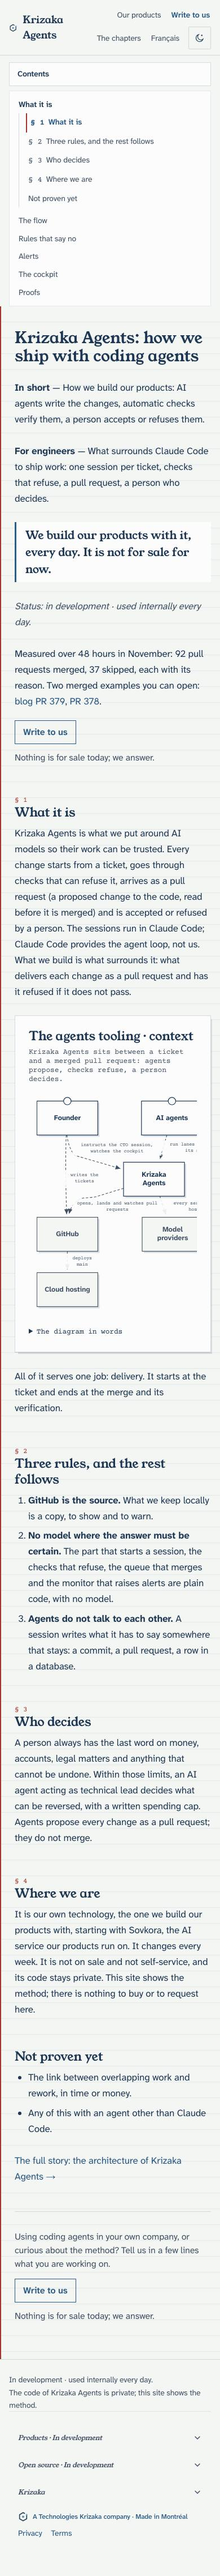
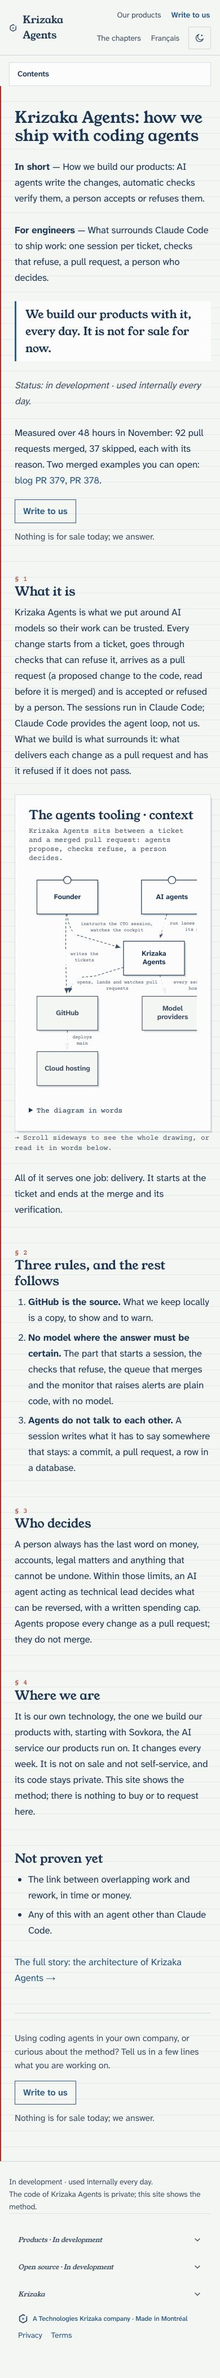
fix(site): every architecture view fits its frame at 1440 px, with a cue where the kit's minimum scale scrolls it; the check measures figure bounds (refs krizaka-internal#4184)

diff --git a/site/app/globals.css b/site/app/globals.css
@@ -12,6 +12,8 @@
   --kz-font-mono: var(--font-kz-mono), "Courier Prime", "Courier New", ui-monospace, Menlo, monospace;
   --kz-reading: 44rem;
   --kz-gutter: clamp(16px, 4vw, 32px);
+  /* The widest the bar, the page and the footer go: room enough for an architecture view at its kit minimum scale beside the margin. */
+  --kz-wide: 80rem;
 }
 
 @layer base {
@@ -72,7 +74,7 @@ main {
   align-items: center;
   justify-content: space-between;
   gap: 12px;
-  max-width: 72rem;
+  max-width: var(--kz-wide);
   margin-inline: auto;
   padding: 10px var(--kz-gutter);
 }
@@ -287,10 +289,31 @@ main {
 .kz-view {
   margin: var(--line) 0;
 }
+/* The cue under a drawing that scrolls in its frame (shown by ViewScrollCue only while it does). */
+.kz-view-cue {
+  margin: 0.25rem 0 0;
+  font-family: var(--kz-font-mono);
+  font-size: 0.8rem;
+  line-height: 1.4;
+  color: var(--kz-text-secondary);
+}
+.kz-view-cue[hidden] {
+  display: none;
+}
+/* On a desktop the drawings take the room right of the margin: the article is as wide as the page allows, its text stays at the
+   reading measure, a view takes the whole width (the kit scales it to its column down to its own minimum). */
+@media (min-width: 1024px) {
+  .kz-article > :not(.kz-view) {
+    max-width: calc(var(--kz-reading) - 2 * var(--kz-gutter) - 0.5rem - 2px);
+  }
+  .kz-view {
+    margin-right: calc(-1 * var(--kz-gutter));
+  }
+}
 
 /* ─── The footer ─── */
 .kz-footer {
-  max-width: 72rem;
+  max-width: var(--kz-wide);
   width: 100%;
   margin: 0 auto;
   padding: 1.5rem var(--kz-gutter) 2.5rem;
@@ -368,7 +391,7 @@ main {
 
 /* ─── The docs layout: the pages and their § sections in the left column, the red margin, the § numbers left of it ─── */
 .kz-doc {
-  max-width: 72rem;
+  max-width: var(--kz-wide);
   margin-inline: auto;
   display: block;
 }
@@ -457,8 +480,8 @@ main {
 @media (min-width: 1024px) {
   .kz-doc {
     display: grid;
-    grid-template-columns: 17rem minmax(0, var(--kz-reading));
-    column-gap: 6rem;
+    grid-template-columns: 12rem minmax(0, 1fr);
+    column-gap: 2rem;
     justify-content: start;
     padding-inline: var(--kz-gutter);
   }
@@ -482,5 +505,6 @@ main {
   }
   .kz-article {
     margin: 0;
+    max-width: none;
   }
 }

diff --git a/site/app/components/ViewScrollCue.tsx b/site/app/components/ViewScrollCue.tsx
@@ -1,0 +1,24 @@
+"use client";
+import { useEffect, useRef, useState } from "react";
+
+/* The kit keeps a drawing legible (a minimum scale) and scrolls it in its frame when its column is narrower: this line says so, only
+   while the frame really scrolls, so a reader knows there is more to the right. The words under the drawing stay the plain reading. */
+export default function ViewScrollCue({ text }: Readonly<{ text: string }>) {
+  const ref = useRef<HTMLParagraphElement>(null);
+  const [scrolls, setScrolls] = useState(false);
+  useEffect(() => {
+    const frame = ref.current?.parentElement?.querySelector(".kz-arch-frame");
+    if (!frame) return;
+    const update = () => setScrolls(frame.scrollWidth > frame.clientWidth + 1);
+    update();
+    const observer = new ResizeObserver(update);
+    observer.observe(frame);
+    return () => observer.disconnect();
+  }, []);
+  return (
+    <p ref={ref} className="kz-view-cue" hidden={!scrolls}>
+      <span aria-hidden="true">⇢ </span>
+      {text}
+    </p>
+  );
+}

diff --git a/site/app/components/ViewFigure.tsx b/site/app/components/ViewFigure.tsx
@@ -1,6 +1,7 @@
 import { ArchitectureDiagram } from "@krizaka/ui/architecture-diagram";
 import "@krizaka/ui/blocks.css";
 import { getMessages, type Locale } from "@/lib/i18n";
+import ViewScrollCue from "./ViewScrollCue";
 import { viewOf, type ViewId } from "@/lib/views";
 
 /* One architecture view where a page places it: @krizaka/ui's ArchitectureDiagram (its styles are the blocks', both themes from
@@ -13,6 +14,7 @@ export default function ViewFigure({ locale, id }: Readonly<{ locale: Locale; id
   return (
     <div className="kz-view" data-view={id}>
       <ArchitectureDiagram view={view} subtitle={t.captions[id]} words={t.words} textOpen={view.dynamic} />
+      <ViewScrollCue text={t.scrollCue} />
     </div>
   );
 }
